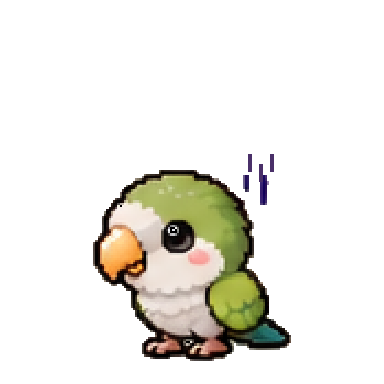
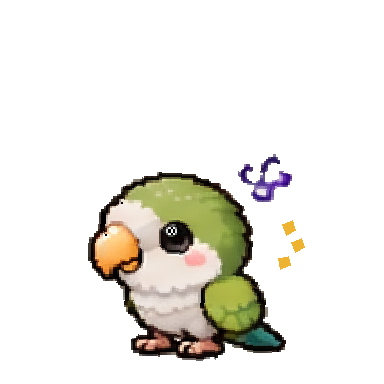
Nuôi thú: áp dụng Abu Direct Pixel Correction v2 (hungry 03, 04, sleepy 04; giữ màu nguồn, bản tạm)

Changed region(s): [[0.2188, 0.4062, 0.7812, 0.9375], [0.7188, 0.5625, 0.8125, 0.7188], [0.375, 0.5312, 0.4062, 0.5625]]

diff --git a/art/abu_direct_pixel_v2/README.md b/art/abu_direct_pixel_v2/README.md
@@ -1,0 +1,3 @@
+Abu Stage 0 Direct Pixel Correction Working v2
+
+Working attempt only; not merge-ready. Source RGB colors are preserved through nearest-neighbor geometry transforms. Alpha thresholded to binary. Pose geometry is altered by whole-sprite affine transform, not detailed limb redraw; this does NOT satisfy Claude’s requested localized 3-region redraw/silhouette threshold yet. Effects are drawn as block pixel clusters. See QA_WORKING_REPORT.json.
